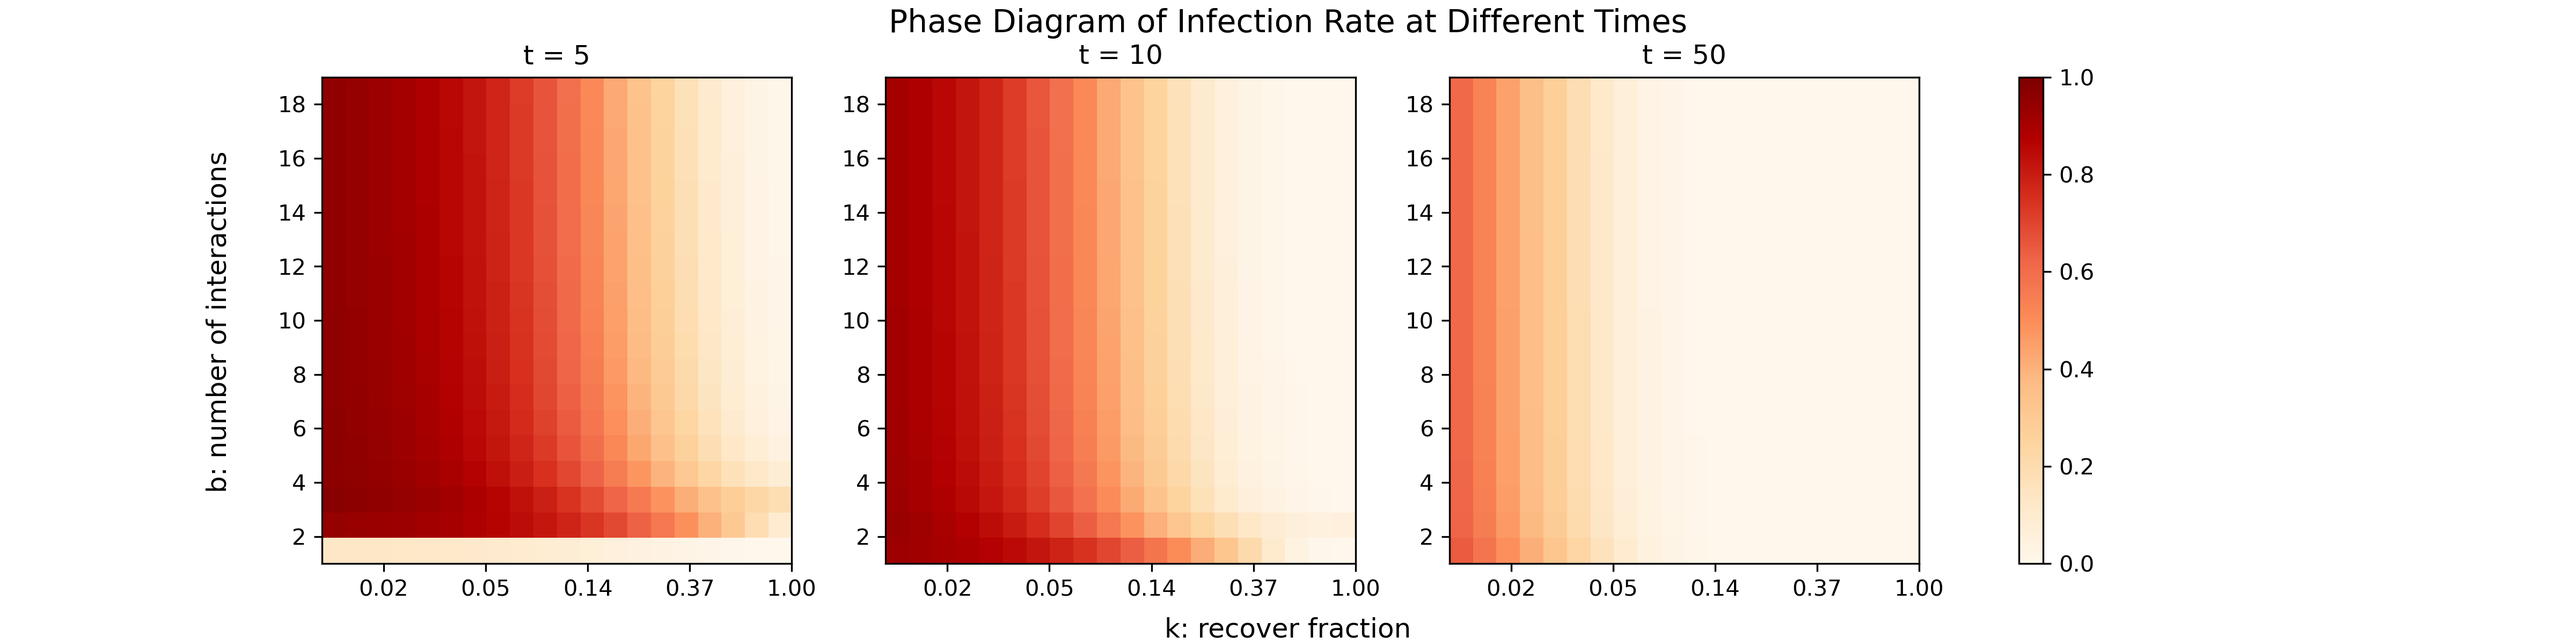
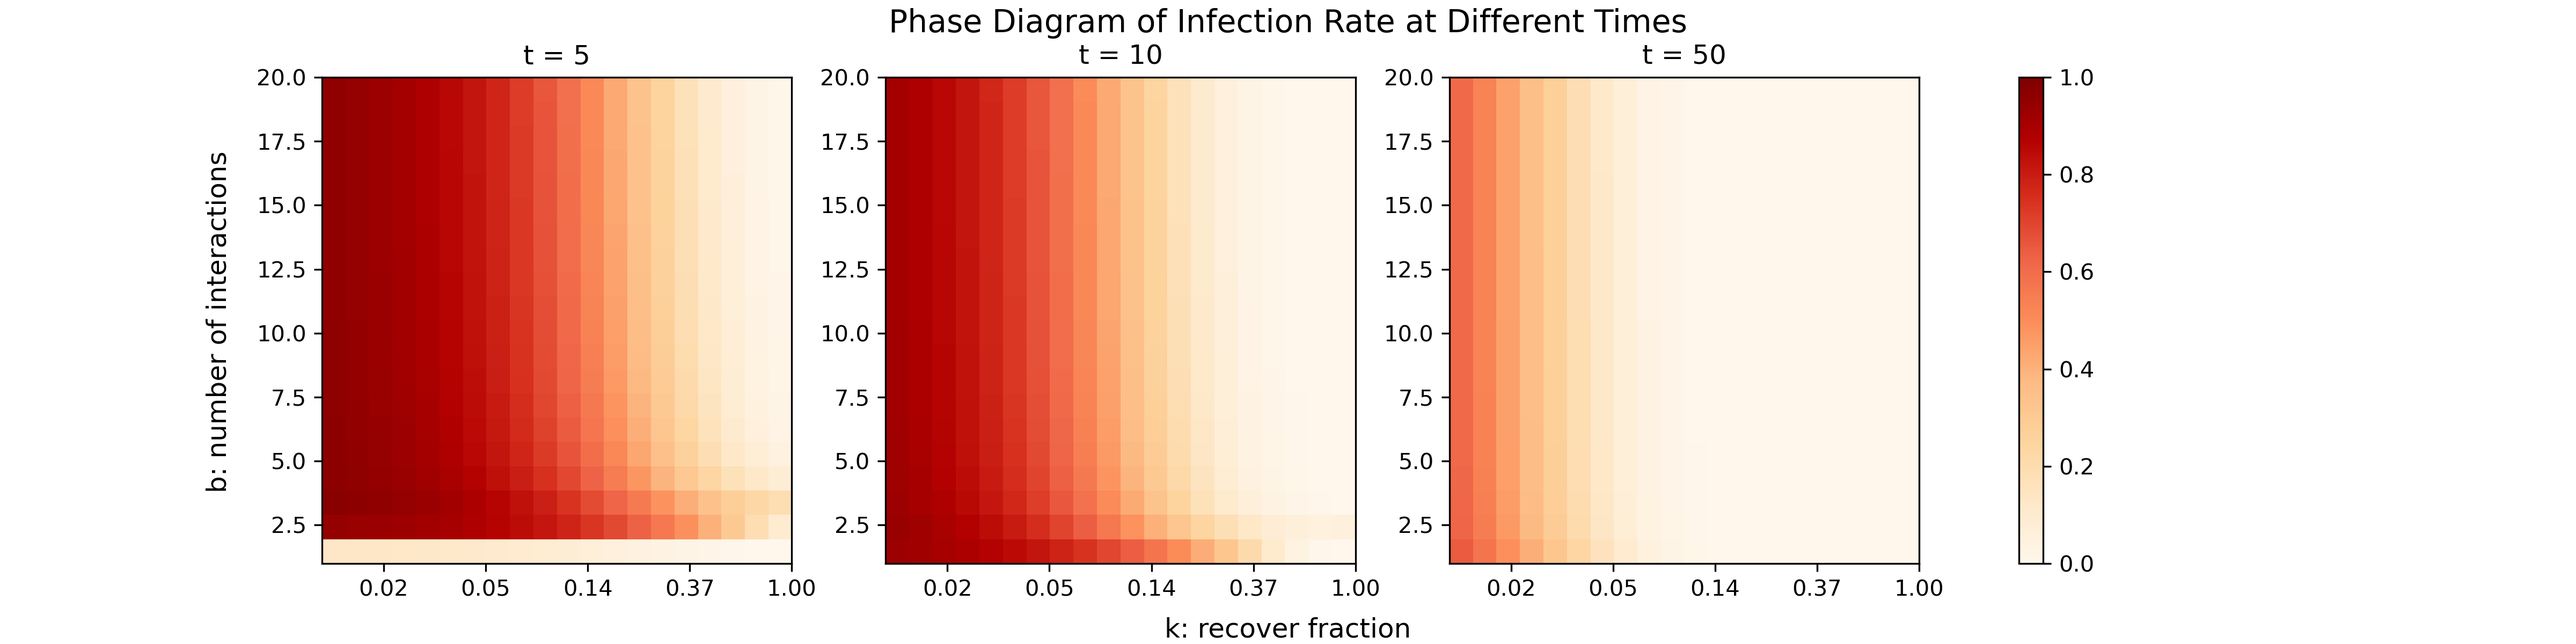
add phase gif for basic sir

diff --git a/scripts/ode_simulation.py b/scripts/ode_simulation.py
@@ -28,7 +28,7 @@ from sir.ode import ode_model
 import numpy as np
 import matplotlib.pyplot as plt
 import matplotlib.ticker as mticker
-
+import matplotlib.animation as animation
 
 
 def plot_sim(result, b, k, ax, accessory=True):
@@ -65,64 +65,75 @@ plot_sim(ode_model(i0, T, b, k), b, k, ax)
 
 
 # facet plot
+
+def facet_plot(results, bs, ks):
+    f, ax = plt.subplots(len(bs), len(ks), figsize=(20, 16), sharex=True, sharey=True)
+    for i, b in enumerate(bs):
+        for j, k in enumerate(ks):
+            plot_sim(results[i,j], b, k, ax[i,j], accessory=False)
+
+    for i, b in enumerate(bs):
+        ax[i,0].set_ylabel("b = {}".format(b))
+    for j, k in enumerate(ks):
+        ax[0,j].set_title("k = {:.2f}".format(k))
+    ax[0,-1].legend()
+    f.text(0.5, 0.95, 'Facet Diagram for Different Parameter Values', ha='center', fontsize=18)
+    f.text(0.5, 0.08, 'Time', ha='center', fontsize=14)
+    f.text(0.08, 0.5, 'Fraction of People', va='center', rotation='vertical', fontsize=14)
+    # plt.savefig("output/ode_facet_plot.png")
+
 bs = np.arange(1, 11, 2, dtype=np.int64)
 ks = np.logspace(-2, 0, 5)
 results_small = run_sim(i0, T, bs, ks)
+facet_plot(results_small, bs, ks)
 
-f, ax = plt.subplots(len(bs), len(ks), figsize=(20, 16), sharex=True, sharey=True)
-for i, b in enumerate(bs):
-    for j, k in enumerate(ks):
-        plot_sim(results_small[i,j], b, k, ax[i,j], accessory=False)
-
-for i, b in enumerate(bs):
-    ax[i,0].set_ylabel("b = {}".format(b))
-for j, k in enumerate(ks):
-    ax[0,j].set_title("k = {:.2f}".format(k))
-ax[0,-1].legend()
-f.text(0.5, 0.95, 'Facet Diagram for Different Parameter Values', ha='center', fontsize=18)
-f.text(0.5, 0.08, 'Time', ha='center', fontsize=14)
-f.text(0.08, 0.5, 'Fraction of People', va='center', rotation='vertical', fontsize=14)
-# plt.savefig("output/ode_facet_plot.png")
-
-# phase diagram at time t
+# phase diagram at time t1, t2 etc
 def log_tick_formatter(val, pos=None):
     return "{:.2f}".format(np.exp(val))
 
-bs = np.arange(1, 20, dtype=np.int64)
-ks = np.logspace(-2, 0, 20)
-results_large = run_sim(i0, T, bs, ks)
-
-f, ax = plt.subplots(1, 3, figsize=(16,4))
-for i, t in enumerate([5, 10, 50]):
-    m = ax[i].imshow(results_large[::-1,:,1,t],
-                     extent=[np.min(np.log(ks)), np.max(np.log(ks)), np.min(bs), np.max(bs)],
-                     vmin=0, vmax=1, cmap='OrRd')
-    ax[i].axis('auto')
-    ax[i].xaxis.set_major_formatter(mticker.FuncFormatter(log_tick_formatter))
-    ax[i].set_title(f"t = {t}")
-f.colorbar(m, ax=[ax[0],ax[1],ax[2]])
-f.text(0.5, 0.95, 'Phase Diagram of Infection Rate at Different Times', ha='center', fontsize=14)
-f.text(0.5, 0.01, 'k: recover fraction', ha='center', fontsize=12)
-f.text(0.08, 0.5, 'b: number of interactions', va='center', rotation='vertical', fontsize=12)
-# plt.savefig("output/ode_phase_plot.png", dpi=200)
-f.savefig('../docs/figs/ode_phase_plot.png', dpi=300)
+def phase_plot_ts(results, bs, ks, ts):
+    f, ax = plt.subplots(1, 3, figsize=(16,4))
+    for i, t in enumerate(ts): # three time points
+        m = ax[i].imshow(results[::-1,:,1,t],
+                         extent=[np.min(np.log(ks)), np.max(np.log(ks)), np.min(bs), np.max(bs)],
+                         vmin=0, vmax=1, cmap='OrRd')
+        ax[i].axis('auto')
+        ax[i].xaxis.set_major_formatter(mticker.FuncFormatter(log_tick_formatter))
+        ax[i].set_title(f"t = {t}")
+    f.colorbar(m, ax=[ax[0],ax[1],ax[2]])
+    f.text(0.5, 0.95, 'Phase Diagram of Infection Rate at Different Times', ha='center', fontsize=14)
+    f.text(0.5, 0.01, 'k: recover fraction', ha='center', fontsize=12)
+    f.text(0.08, 0.5, 'b: number of interactions', va='center', rotation='vertical', fontsize=12)
+    # plt.savefig("output/ode_phase_plot.png", dpi=200)
+    f.savefig('../docs/figs/ode_phase_plot.png', dpi=300)
 
 # phase diagram gif
-
-def update():
+def update(t, bs, ks, ax, cmap='OrRd'):
     ax.clear()
-
-def phase_gif(results_large, Tmax=T, )
-    fig, ax = plt.figure(dpi=200, figsize=(5,5))
-    im = ax.imshow(results_large[::-1,:,1,t],
+    ax.imshow(results_large[::-1,:,1,t], aspect='auto',
                      extent=[np.min(np.log(ks)), np.max(np.log(ks)), np.min(bs), np.max(bs)],
-                     vmin=0, vmax=1, cmap='OrRd')
-    ax.xaxis.set_major_formatter(mticker.FuncFormatter(log_tick_formatter))
+                     vmin=0, vmax=1, cmap=cmap)
     ax.set_title(f"t = {t}")
+    ax.xaxis.set_major_formatter(mticker.FuncFormatter(log_tick_formatter))
+    ax.set_xlabel('k: recover fraction')
+    ax.set_ylabel('b: number of interactions')
+    return ax
+
+def phase_plot_gif(results, Tmax=T, cmap='OrRd'):
+    fig, ax = plt.subplots(dpi=200, figsize=(6,4))
+    im = ax.imshow(results[::-1,:,1,0], aspect='auto', extent=[np.min(np.log(ks)), np.max(np.log(ks)), np.min(bs), np.max(bs)], vmin=0, vmax=1, cmap=cmap)
+    ax.xaxis.set_major_formatter(mticker.FuncFormatter(log_tick_formatter))
     ax.set_xlabel('k: recover fraction')
     ax.set_ylabel('b: number of interactions')
     colbar = fig.colorbar(im, pad=0.2, shrink=0.8)
     colbar.set_label(r'      $i(t)$', rotation=0)
-    ani = animation.FuncAnimation(fig, update, frames=Tmax+1, fargs=(x, y, z, ax, cmap),
+    ani = animation.FuncAnimation(fig, update, frames=Tmax, fargs=(bs, ks, ax, cmap),
                                     interval=100, blit=False)
-    ani.save("../docs/figs/ode_seir_phase_3d.gif", writer='pillow')
+    ani.save("../docs/figs/ode_phase_plot.gif", writer='pillow')
+
+bs = np.arange(1, 21, dtype=np.int64)
+ks = np.logspace(-2, 0, 20)
+results_large = run_sim(i0, T, bs, ks)
+ts = [5, 10, 50]
+phase_plot_ts(results_large, bs, ks, ts)
+phase_plot_gif(results_large, Tmax=100)

diff --git a/scripts/agent_simulation.py b/scripts/agent_simulation.py
@@ -29,7 +29,7 @@ import numpy as np
 import matplotlib.pyplot as plt
 from numpy.random import randint, rand, choice
 import matplotlib.ticker as mticker
-
+import matplotlib.animation as animation
 
 def count_sir(pop):
     I = sum(p.is_infected() for p in pop)
@@ -116,6 +116,51 @@ f.text(0.08, 0.5, 'Fraction of People', va='center', rotation='vertical', fontsi
 # plt.savefig("output/agent_facet_plot.png")
 
 # phase diagram
+# phase diagram at time t
+
+def log_tick_formatter(val, pos=None):
+    return "{:.2f}".format(np.exp(val))
+
+def phase_plot_ts(results, bs, ks, ts):
+    f, ax = plt.subplots(1, 3, figsize=(16,4))
+    for i, t in enumerate([5, 10, 50]):
+        m = ax[i].imshow(results[::-1,:,t,1],
+                         extent=[np.min(np.log(p_ks)), np.max(np.log(p_ks)), np.min(p_bs), np.max(p_bs)],
+                         vmin=0, vmax=1, cmap='OrRd')
+        ax[i].axis('auto')
+        ax[i].xaxis.set_major_formatter(mticker.FuncFormatter(log_tick_formatter))
+
+        ax[i].set_title("t = {}".format(t))
+    f.colorbar(m, ax=[ax[0],ax[1],ax[2]])
+    f.text(0.5, 0.95, 'Phase Diagram of Infection Rate at Different Times', ha='center', fontsize=14)
+    f.text(0.5, 0.01, 'k: recover fraction', ha='center', fontsize=12)
+    f.text(0.08, 0.5, 'b: number of interactions', va='center', rotation='vertical', fontsize=12)
+    plt.savefig("../docs/figs/agent_phase_plot.png", dpi=300)
+
+def update(t, bs, ks, ax, cmap='OrRd'):
+    ax.clear()
+    ax.imshow(p_results[::-1,:,t,1], aspect='auto',
+                     extent=[np.min(np.log(ks)), np.max(np.log(ks)), np.min(bs), np.max(bs)],
+                     vmin=0, vmax=1, cmap=cmap)
+    ax.set_title(f"t = {t}")
+    ax.xaxis.set_major_formatter(mticker.FuncFormatter(log_tick_formatter))
+    ax.set_xlabel('k: recover fraction')
+    ax.set_ylabel('b: number of interactions')
+    return ax
+
+def phase_plot_gif(results, Tmax=T, cmap='OrRd'):
+    fig, ax = plt.subplots(dpi=200, figsize=(6,4))
+    im = ax.imshow(results[::-1,:,0,1], aspect='auto', extent=[np.min(np.log(p_ks)), np.max(np.log(p_ks)), np.min(p_bs), np.max(p_bs)], vmin=0, vmax=1, cmap=cmap)
+    ax.xaxis.set_major_formatter(mticker.FuncFormatter(log_tick_formatter))
+    ax.set_xlabel('k: recover fraction')
+    ax.set_ylabel('b: number of interactions')
+    colbar = fig.colorbar(im, pad=0.2, shrink=0.8)
+    colbar.set_label(r'      $i(t)$', rotation=0)
+    ani = animation.FuncAnimation(fig, update, frames=Tmax+1, fargs=(p_bs, p_ks, ax, cmap),
+                                    interval=100, blit=False)
+    ani.save("../docs/figs/agent_phase_plot.gif", writer='pillow')
+
+
 grid_size = 20
 p_bs = np.arange(1, grid_size+1, dtype=np.int64)
 p_ks = np.logspace(-2, 0, grid_size)
@@ -127,24 +172,8 @@ for i, b in enumerate(p_bs):
         # p_results[i,j,...] = counts_sir / N
         pop = Population(N, 0.001)
         p_results[i,j,...] = pop.simulation(b=b,k=k,T=T)
-# phase diagram at time t
-#t = 10
 
-def log_tick_formatter(val, pos=None):
-    return "{:.2f}".format(np.exp(val))
-
-
-f, ax = plt.subplots(1, 3, figsize=(16,4))
-for i, t in enumerate([5, 10, 50]):
-    m = ax[i].imshow(p_results[::-1,:,t,1],
-                     extent=[np.min(np.log(p_ks)), np.max(np.log(p_ks)), np.min(p_bs), np.max(p_bs)],
-                     vmin=0, vmax=1, cmap='OrRd')
-    ax[i].axis('auto')
-    ax[i].xaxis.set_major_formatter(mticker.FuncFormatter(log_tick_formatter))
-
-    ax[i].set_title("t = {}".format(t))
-f.colorbar(m, ax=[ax[0],ax[1],ax[2]])
-f.text(0.5, 0.95, 'Phase Diagram of Infection Rate at Different Times', ha='center', fontsize=14)
-f.text(0.5, 0.01, 'k: recover fraction', ha='center', fontsize=12)
-f.text(0.08, 0.5, 'b: number of interactions', va='center', rotation='vertical', fontsize=12)
-plt.savefig("../docs/figs/agent_phase_plot.png", dpi=300)
+p_results.shape
+ts = [5, 10, 50]
+phase_plot_ts(p_results, p_bs, p_ks, ts)
+phase_plot_gif(p_results, Tmax=100)

diff --git a/scripts/ode_seir_simulation.py b/scripts/ode_seir_simulation.py
@@ -201,7 +201,6 @@ def plot_phase_2d_gif(bfks, itss, Tmax=T, cmap='OrRd'):
         im0 = ax[0].imshow(its2.mean(axis=0).transpose()[::-1,:], aspect='auto',
                      extent=[np.min(np.log(fs)), np.max(np.log(fs)), np.min(np.log(ks)), np.max(np.log(ks))],
                      vmin=0, vmax=1, cmap=cmap)
-
         im1 = ax[1].imshow(its2.mean(axis=1).transpose()[::-1,:], aspect='auto',
                      extent=[np.min(bs), np.max(bs), np.min(np.log(ks)), np.max(np.log(ks))],
                      vmin=0, vmax=1, cmap=cmap)
